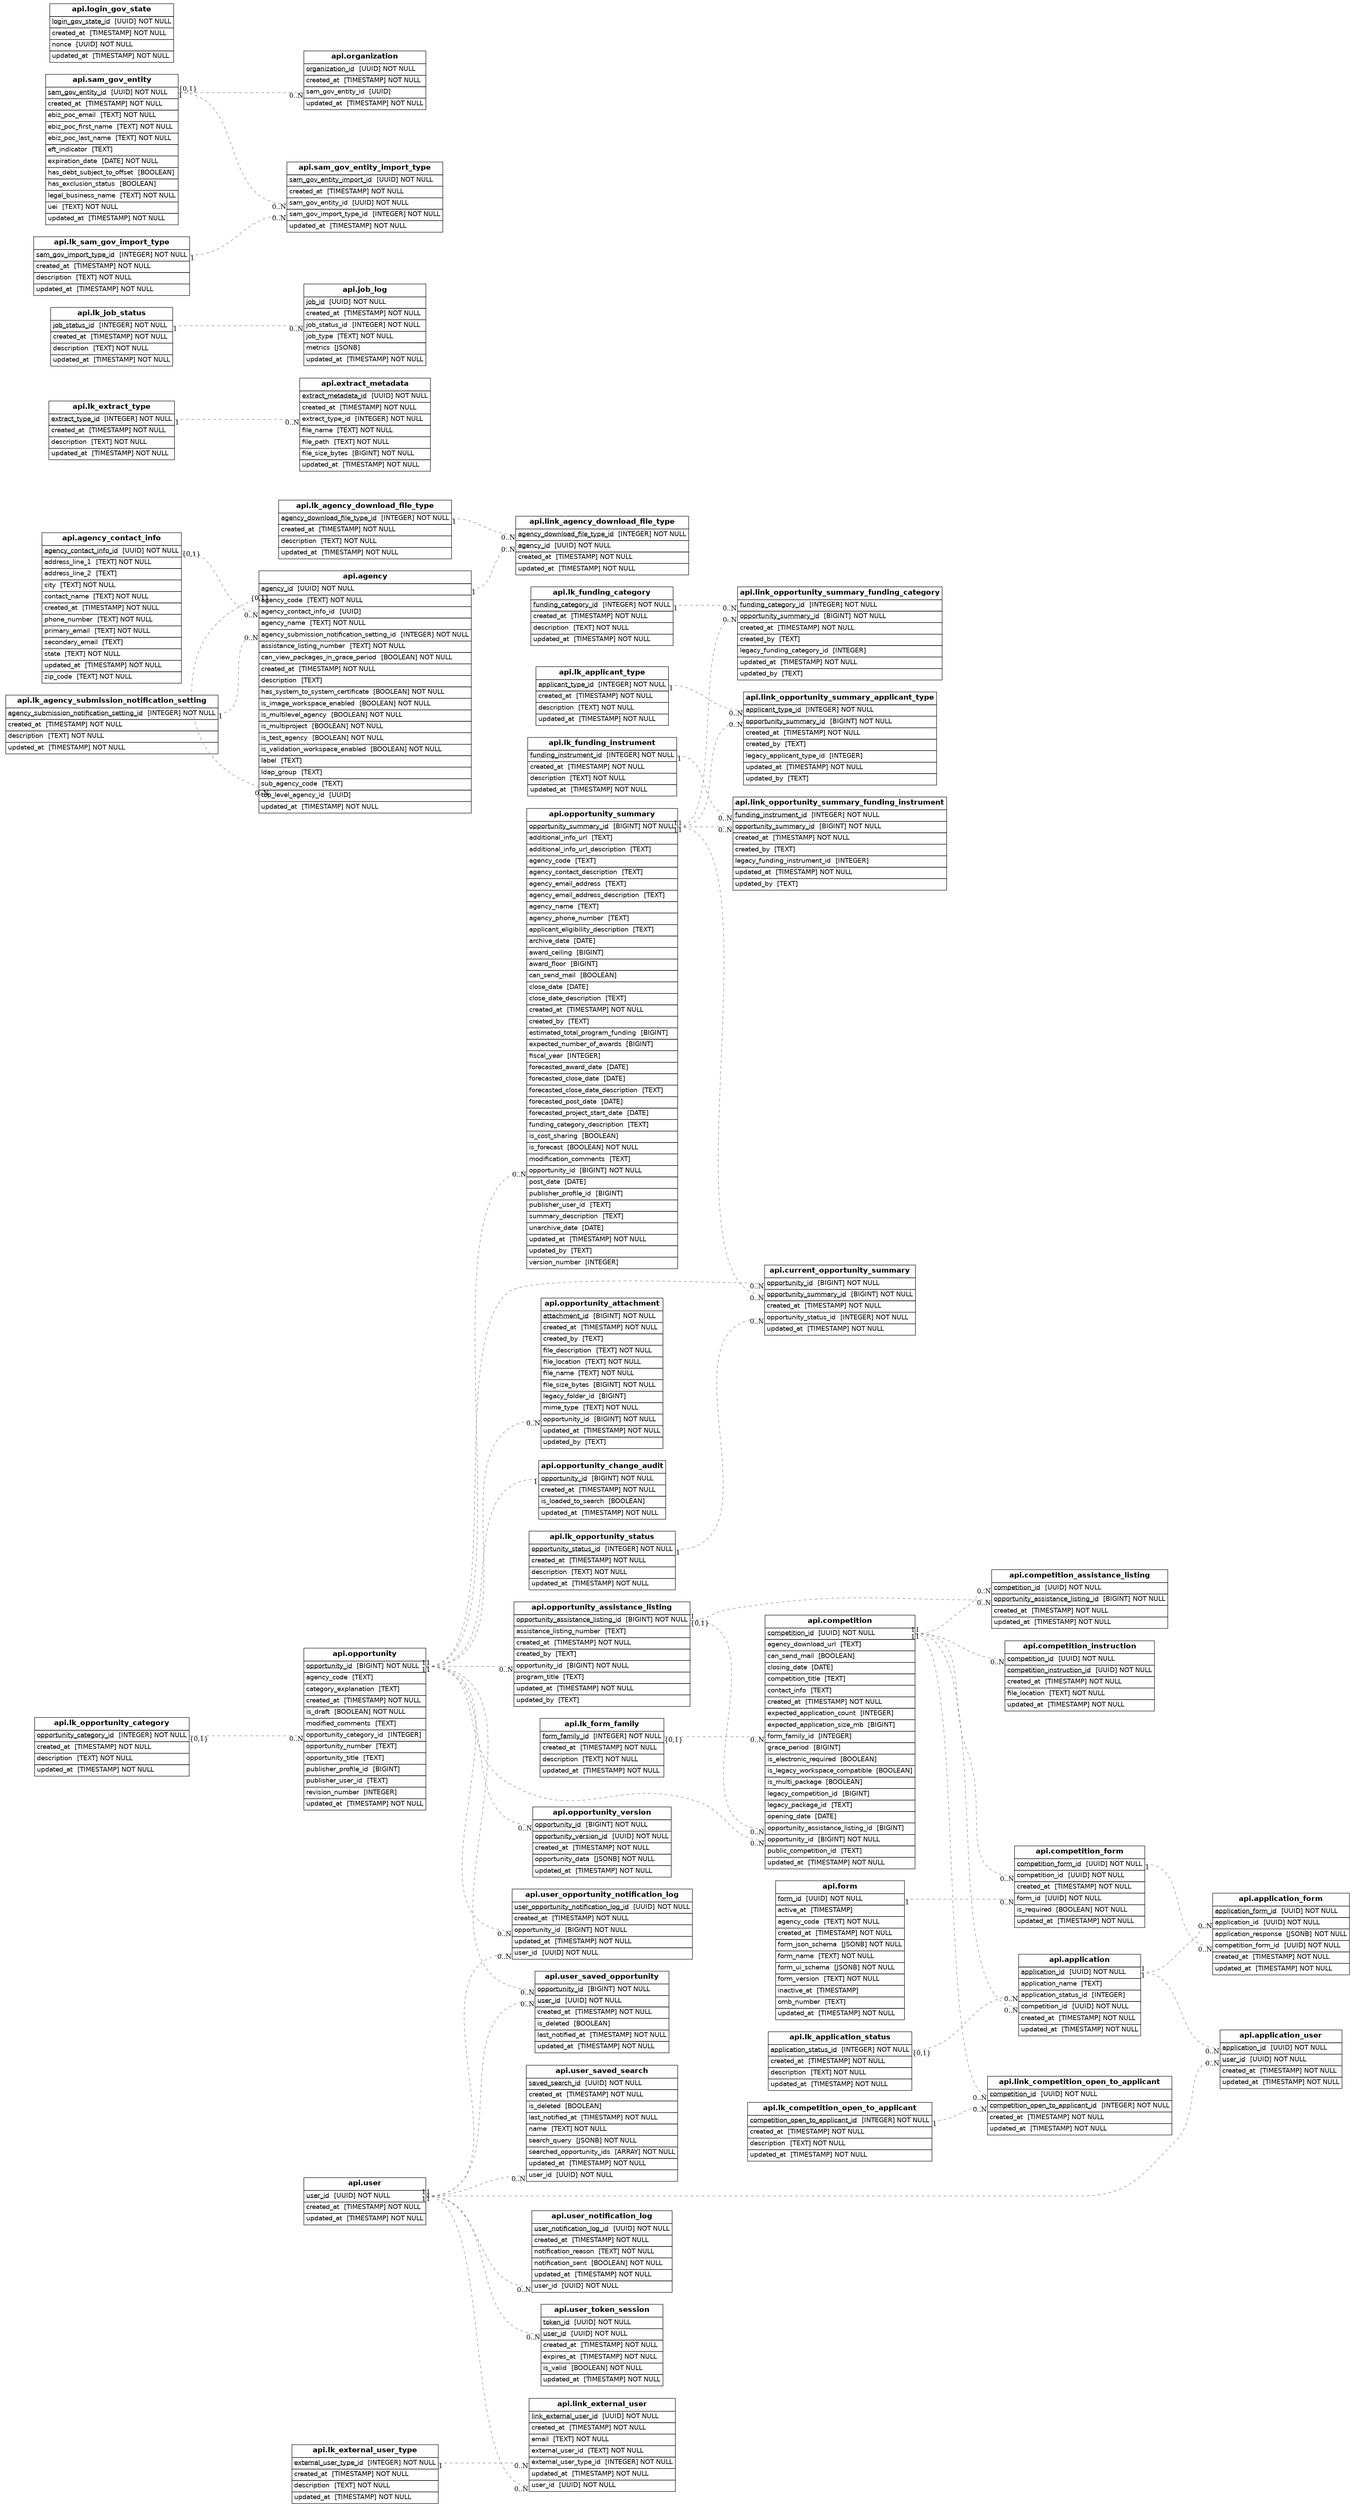
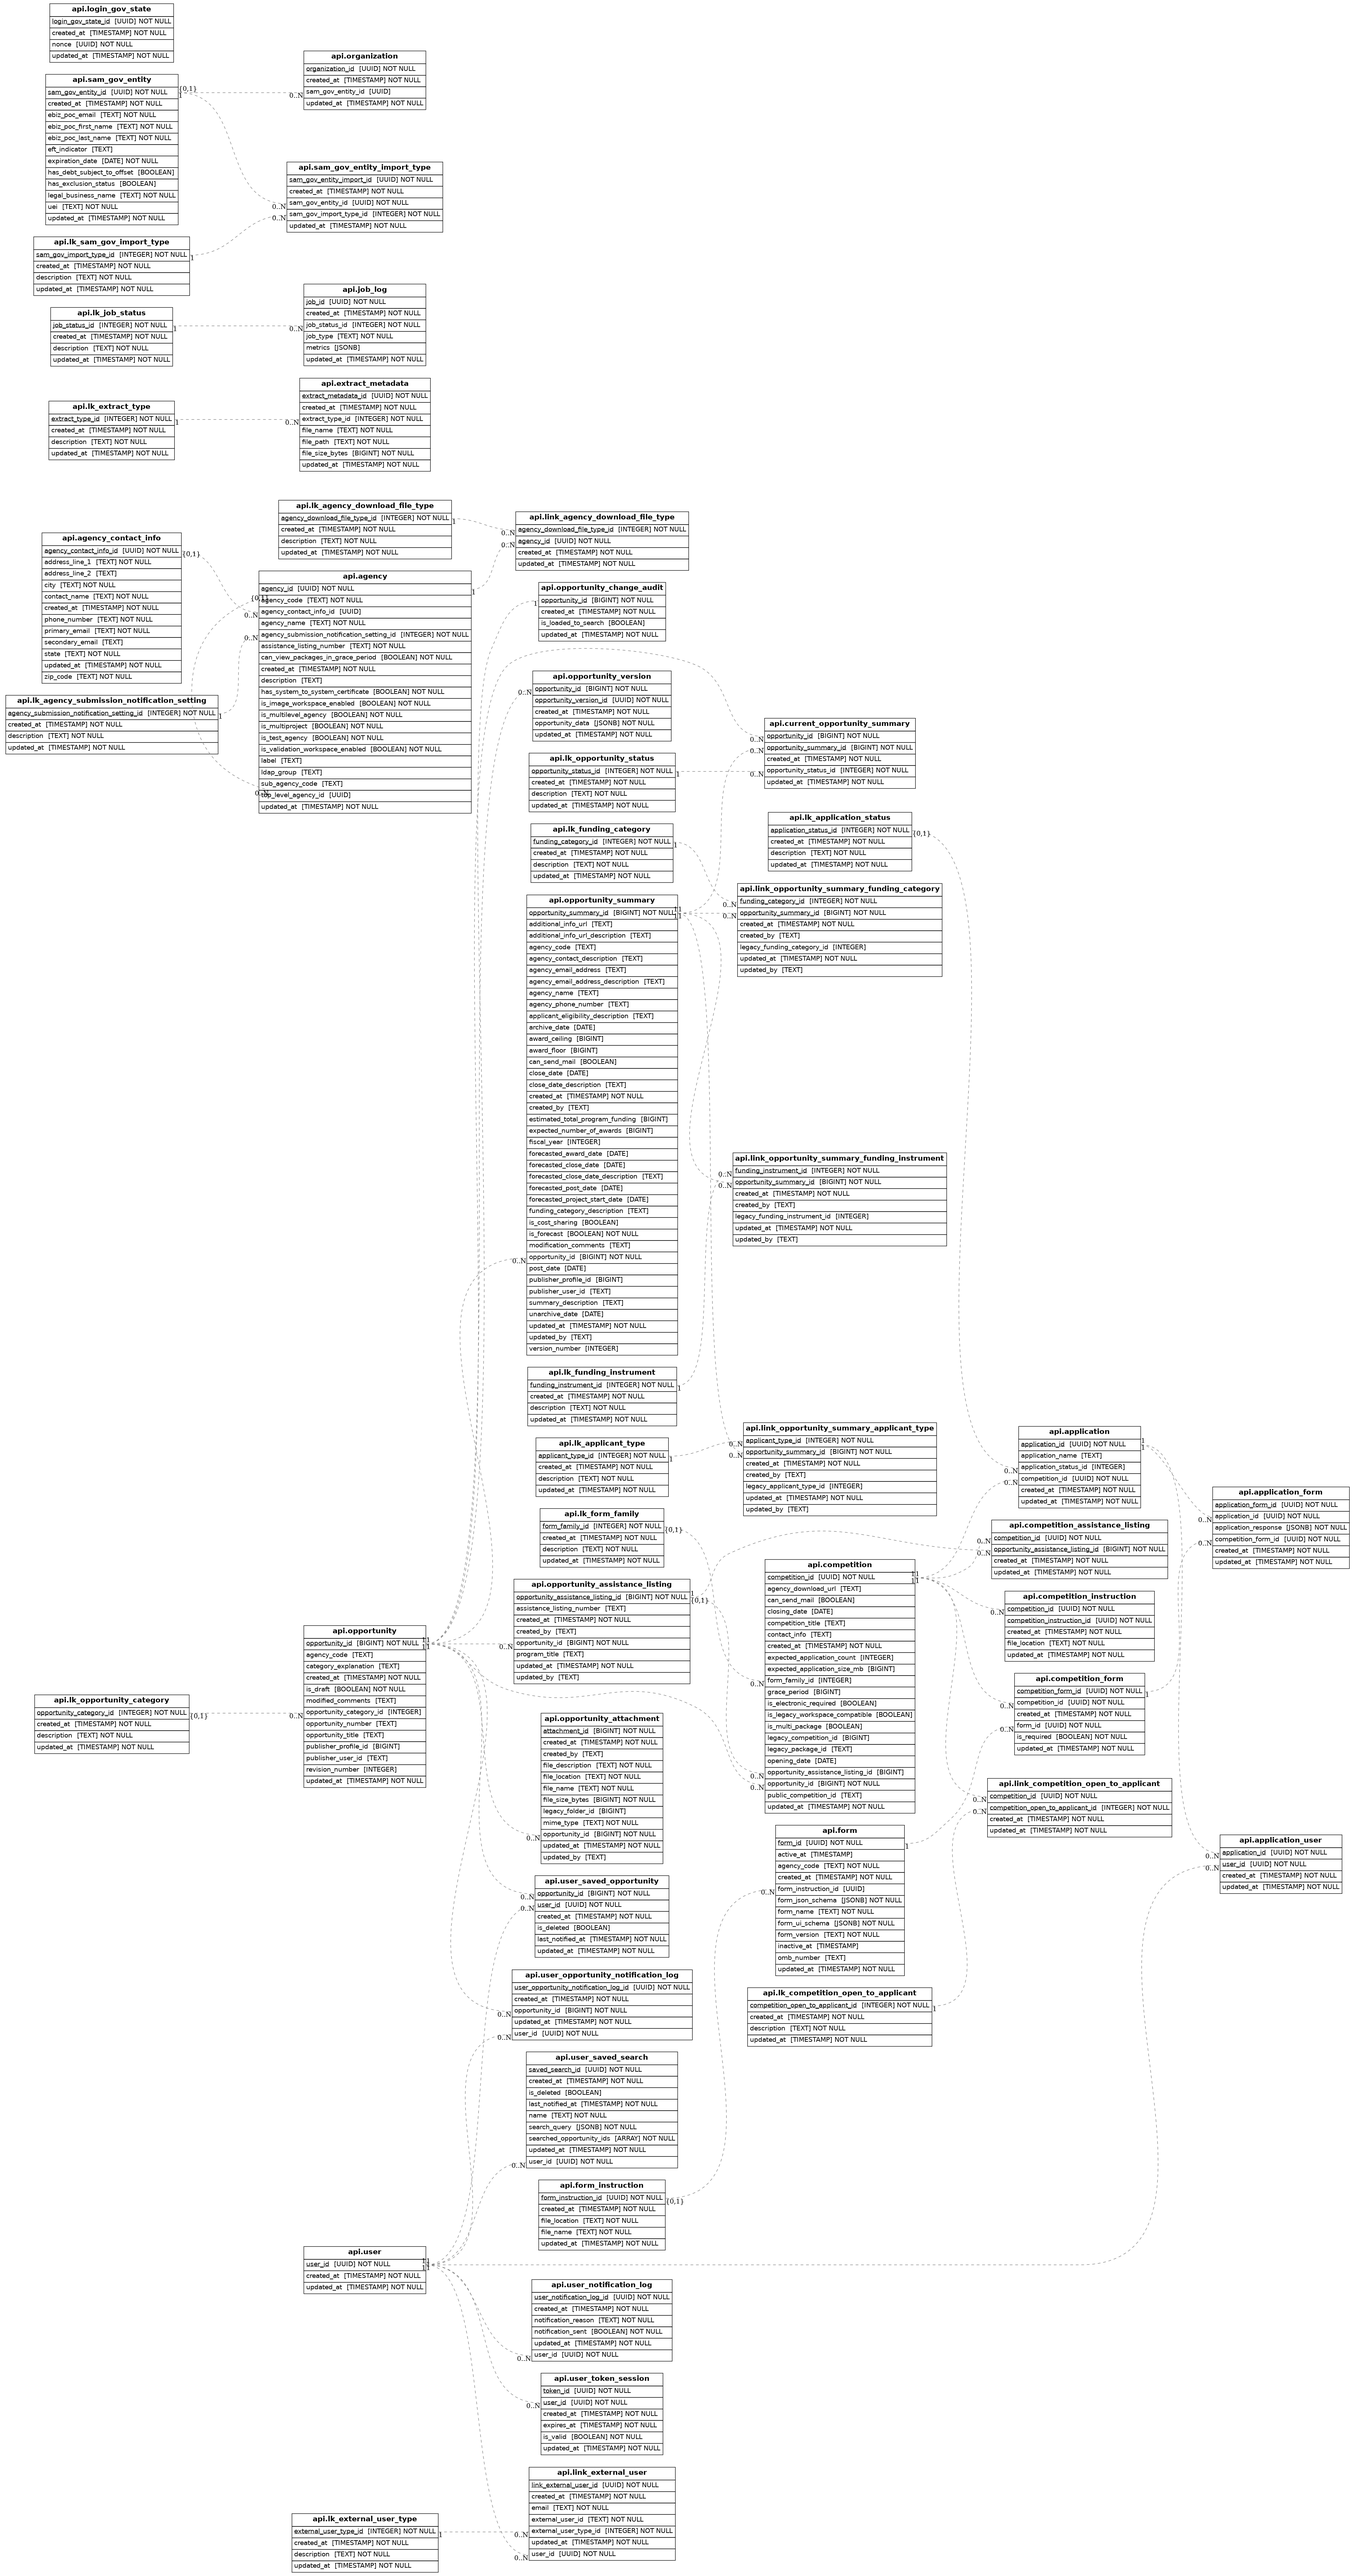
[Issue #5136] Add form instruction table (#5198)
## Summary

Fixes #5136

## Changes proposed

Add `form_instruction` table
Create new factory
Add DB migration

## Context for reviewers

Factory with S3 interaction closely follows the opportunity attachment
factory.

## Validation steps

See screenshot of Factory working in `make console`.
<img width="485" alt="Screenshot 2025-05-29 at 1 02 47 PM"
src="https://github.com/user-attachments/assets/a408bfba-fe8d-44d9-9e3a-2a69cdb36c96"
/>

diff --git a/api/tests/src/db/models/factories.py b/api/tests/src/db/models/factories.py
@@ -988,6 +988,47 @@ class CompetitionInstructionFactory(BaseFactory):
     file_location = "file_location"
 
 
+class FormInstructionFactory(BaseFactory):
+    class Meta:
+        model = competition_models.FormInstruction
+
+    form_instruction_id = Generators.UuidObj
+    file_location = factory.LazyAttribute(
+        lambda o: f"s3://local-mock-public-bucket/form-instructions/{o.form_instruction_id}/{o.file_name}"
+    )
+    file_name = factory.Faker("file_name", extension="pdf")
+    # Whatever you pass in for file_contents will end up in the file, but
+    # not included anywhere on the model itself
+    file_contents = factory.Faker("sentence")
+
+    @classmethod
+    def _build(cls, model_class, *args, **kwargs):
+        kwargs.pop("file_contents")  # Don't file for build strategy
+        super()._build(model_class, *args, **kwargs)
+
+    @classmethod
+    def _create(cls, model_class, *args, **kwargs):
+        # Extract file_contents from kwargs
+        file_contents = kwargs.pop("file_contents")
+        obj = super()._create(model_class, *args, **kwargs)
+
+        try:
+            with file_util.open_stream(obj.file_location, "w") as my_file:
+                my_file.write(file_contents)
+        except Exception as e:
+            raise Exception(
+                f"""There was an error writing your form instruction to {obj.file_location}.
+
+                Does this location exist? If you are running in unit tests, make sure
+                `enable_factory_create` is pulled in as a fixture to your test.
+
+                If you are running locally outside of unit tests, make sure that `make init-localstack` has run.
+                """
+            ) from e
+
+        return obj
+
+
 class CompetitionAssistanceListingFactory(BaseFactory):
     class Meta:
         model = competition_models.CompetitionAssistanceListing
@@ -1026,6 +1067,7 @@ class FormFactory(BaseFactory):
     # Form version will be like 1.0, 4.5, etc.
     form_version = factory.Faker("pystr_format", string_format="#.#")
     agency_code = factory.Faker("agency_code")
+    form_instruction = None  # By default no instruction, use with_instruction trait for this
 
     form_json_schema = {
         "type": "object",
@@ -1094,6 +1136,14 @@ class FormFactory(BaseFactory):
             },
         },
     ]
+
+    class Params:
+        with_instruction = factory.Trait(
+            form_instruction=factory.SubFactory(FormInstructionFactory),
+            form_instruction_id=factory.LazyAttribute(
+                lambda o: o.form_instruction.form_instruction_id if o.form_instruction else None
+            ),
+        )
 
 
 class CompetitionFormFactory(BaseFactory):

diff --git a/api/src/db/migrations/versions/2025_05_29_add_form_instruction_table_and_relation_.py b/api/src/db/migrations/versions/2025_05_29_add_form_instruction_table_and_relation_.py
@@ -1,0 +1,64 @@
+"""Add form_instruction table and relation to form
+
+Revision ID: e9a486bf855c
+Revises: 005c50485359
+Create Date: 2025-05-29 16:01:21.269471
+
+"""
+
+import sqlalchemy as sa
+from alembic import op
+
+# revision identifiers, used by Alembic.
+revision = "e9a486bf855c"
+down_revision = "005c50485359"
+branch_labels = None
+depends_on = None
+
+
+def upgrade():
+    # ### commands auto generated by Alembic - please adjust! ###
+    op.create_table(
+        "form_instruction",
+        sa.Column("form_instruction_id", sa.UUID(), nullable=False),
+        sa.Column("file_location", sa.Text(), nullable=False),
+        sa.Column("file_name", sa.Text(), nullable=False),
+        sa.Column(
+            "created_at",
+            sa.TIMESTAMP(timezone=True),
+            server_default=sa.text("now()"),
+            nullable=False,
+        ),
+        sa.Column(
+            "updated_at",
+            sa.TIMESTAMP(timezone=True),
+            server_default=sa.text("now()"),
+            nullable=False,
+        ),
+        sa.PrimaryKeyConstraint("form_instruction_id", name=op.f("form_instruction_pkey")),
+        schema="api",
+    )
+    op.add_column("form", sa.Column("form_instruction_id", sa.UUID(), nullable=True), schema="api")
+    op.create_foreign_key(
+        op.f("form_form_instruction_id_form_instruction_fkey"),
+        "form",
+        "form_instruction",
+        ["form_instruction_id"],
+        ["form_instruction_id"],
+        source_schema="api",
+        referent_schema="api",
+    )
+    # ### end Alembic commands ###
+
+
+def downgrade():
+    # ### commands auto generated by Alembic - please adjust! ###
+    op.drop_constraint(
+        op.f("form_form_instruction_id_form_instruction_fkey"),
+        "form",
+        schema="api",
+        type_="foreignkey",
+    )
+    op.drop_column("form", "form_instruction_id", schema="api")
+    op.drop_table("form_instruction", schema="api")
+    # ### end Alembic commands ###

diff --git a/api/src/db/models/competition_models.py b/api/src/db/models/competition_models.py
@@ -128,6 +128,16 @@ class CompetitionInstruction(ApiSchemaTable, TimestampMixin):
     file_location: Mapped[str]
 
 
+class FormInstruction(ApiSchemaTable, TimestampMixin):
+    __tablename__ = "form_instruction"
+
+    form_instruction_id: Mapped[uuid.UUID] = mapped_column(
+        UUID, primary_key=True, default=uuid.uuid4
+    )
+    file_location: Mapped[str]
+    file_name: Mapped[str]
+
+
 class CompetitionAssistanceListing(ApiSchemaTable, TimestampMixin):
     __tablename__ = "competition_assistance_listing"
 
@@ -158,6 +168,12 @@ class Form(ApiSchemaTable, TimestampMixin):
     inactive_at: Mapped[datetime | None]
     form_json_schema: Mapped[dict] = mapped_column(JSONB, nullable=False)
     form_ui_schema: Mapped[dict] = mapped_column(JSONB, nullable=False)
+    form_instruction_id: Mapped[uuid.UUID | None] = mapped_column(
+        UUID, ForeignKey(FormInstruction.form_instruction_id), nullable=True
+    )
+    form_instruction: Mapped[FormInstruction | None] = relationship(
+        FormInstruction, cascade="all, delete-orphan", single_parent=True
+    )
 
 
 class CompetitionForm(ApiSchemaTable, TimestampMixin):
